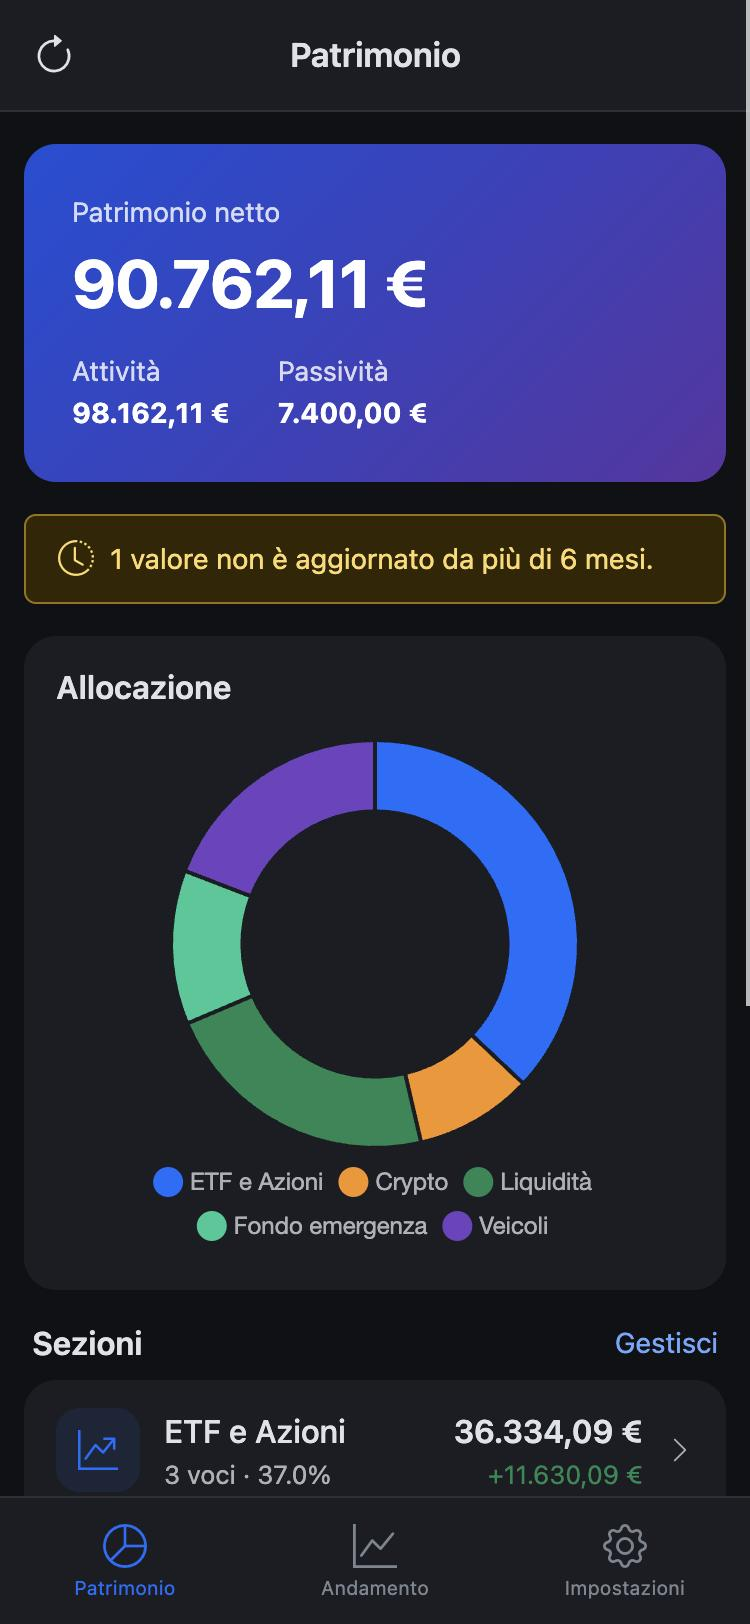
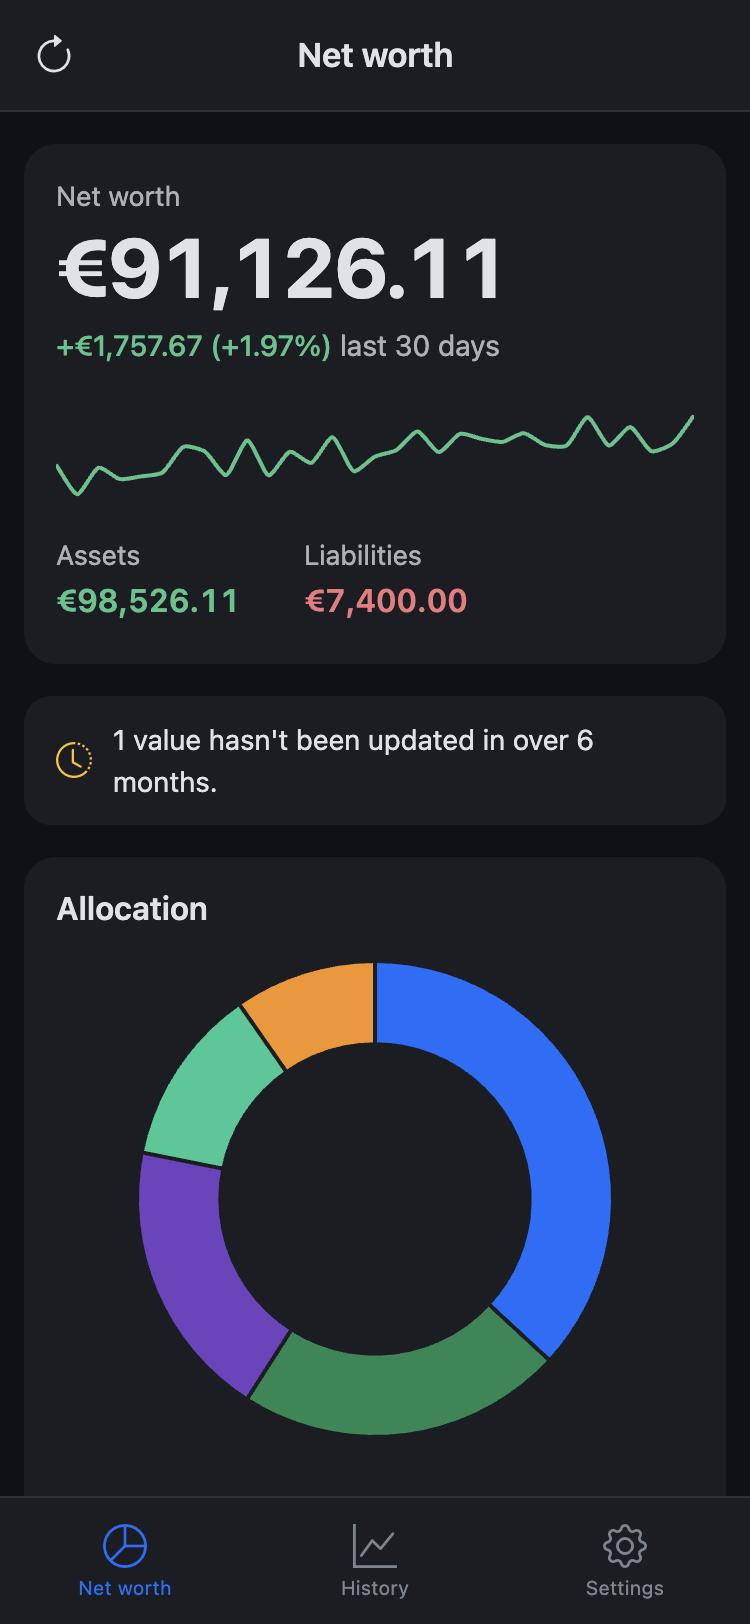
Ridisegna la dashboard con uno stile più pulito
- Testata del patrimonio in card neutra al posto del riquadro con gradiente
- Variazione e sparkline degli ultimi 30 giorni, attività in verde e passività in rosso
- Legenda dell'allocazione con le percentuali, grafico ordinato per peso
- Colori di guadagni e perdite leggibili in tema scuro, avviso valori vecchi più discreto
- Icona e logo a tinta unita, con variante per il tema scuro
- README senza emoji, screenshot in inglese e link di clone aggiornato

diff --git a/script/dashboard.js b/script/dashboard.js
@@ -1,18 +1,20 @@
 let allocationChart = null;
+let sparkChart = null;
 
 function loadSummary(refresh = false) {
 	const $icon = $('#btnRefresh i').addClass('spin');
 
 	App.api('portfolio/summary', { refresh: refresh ? 1 : 0 }, 'GET')
-		.done(render)
+		.done(data => { render(data); loadTrend(); })
 		.fail(msg => App.toast(msg, 'danger'))
 		.always(() => $icon.removeClass('spin'));
 }
 
 function render(data) {
 	$('#netWorth').text(App.money(data.net_worth));
-	$('#totalAssets').text(App.money(data.total_assets));
-	$('#totalLiabilities').text(App.money(data.total_liabilities));
+	// Verde/rosso solo se c'è un importo: uno zero resta neutro
+	$('#totalAssets').text(App.money(data.total_assets)).toggleClass('text-success', data.total_assets > 0);
+	$('#totalLiabilities').text(App.money(data.total_liabilities)).toggleClass('text-danger', data.total_liabilities > 0);
 
 	if (data.stale_total > 0) {
 		$('#staleText').text(data.stale_total === 1
@@ -55,9 +57,57 @@ function render(data) {
 	renderChart(data.categories.filter(c => !c.is_liability && c.total > 0));
 }
 
+// Variazione e sparkline degli ultimi 30 giorni (dopo il summary, che salva lo snapshot di oggi)
+function loadTrend() {
+	App.api('portfolio/history', { days: 30 }, 'GET').done(({ snapshots }) => {
+		if (snapshots.length < 2) {
+			$('#netChange').empty();
+			$('#sparkWrap').addClass('d-none');
+			return;
+		}
+		const values = snapshots.map(s => s.net_worth);
+		const first = values[0], last = values[values.length - 1], diff = last - first;
+		const since = snapshots[0].snapshot_date;
+		const spanDays = Math.round((Date.now() - new Date(since + 'T00:00:00')) / 86400000);
+		const period = spanDays >= 28 ? App.t('dash.last_30d') : App.t('dash.since', { date: App.date(since + 'T00:00:00', { day: 'numeric', month: 'short' }) });
+
+		$('#netChange').html(
+			`<span class="${App.signClass(diff)}">${diff > 0 ? '+' : ''}${App.money(diff)}${first ? ' (' + App.pct(diff / Math.abs(first) * 100) + ')' : ''}</span>` +
+			` <span class="period">${App.esc(period)}</span>`
+		);
+
+		const color = App.cssVar(diff < 0 ? '--app-down' : '--app-up');
+		$('#sparkWrap').removeClass('d-none');
+		sparkChart?.destroy();
+		sparkChart = new Chart($('#sparkline'), {
+			type: 'line',
+			data: { labels: values.map((_, i) => i), datasets: [{ data: values, borderColor: color, borderWidth: 2, pointRadius: 0, tension: .2, fill: false }] },
+			options: {
+				maintainAspectRatio: false,
+				animation: false,
+				events: [],
+				plugins: { legend: { display: false }, tooltip: { enabled: false } },
+				scales: { x: { display: false }, y: { display: false } }
+			}
+		});
+	});
+}
+
 function renderChart(cats) {
 	$('#allocationCard').toggle(cats.length > 0);
 	if (!cats.length) return;
+
+	// Dalla sezione più grande alla più piccola, uguale nel grafico e nella legenda
+	cats = [...cats].sort((a, b) => b.total - a.total);
+	const total = cats.reduce((s, c) => s + c.total, 0);
+	const share = c => App.pct(c.total / total * 100).replace('+', '');
+
+	$('#allocLegend').html(cats.map(c => `
+		<li>
+			<span class="dot" style="background:${c.color}"></span>
+			<span class="name">${App.esc(c.name)}</span>
+			<span class="pct">${share(c)}</span>
+		</li>`).join(''));
 
 	const cfg = {
 		labels: cats.map(c => c.name),
@@ -74,8 +124,8 @@ function renderChart(cats) {
 		options: {
 			cutout: '65%',
 			plugins: {
-				legend: { position: 'bottom', labels: { boxWidth: 10, usePointStyle: true } },
-				tooltip: { callbacks: { label: ctx => ' ' + ctx.label + ': ' + App.money(ctx.raw) } }
+				legend: { display: false },
+				tooltip: { callbacks: { label: ctx => ` ${ctx.label}: ${App.money(ctx.raw)} (${App.pct(ctx.raw / ctx.dataset.data.reduce((s, v) => s + v, 0) * 100).replace('+', '')})` } }
 			}
 		}
 	});

diff --git a/style/components.css b/style/components.css
@@ -10,6 +10,8 @@
     --app-divider: #f1f3f5;
     --app-pressed: #f8f9fa;
     --app-nav-muted: #8a929a;
+    --app-up: #198754;
+    --app-down: #d63340;
 }
 [data-bs-theme="dark"] {
     --app-bg: #0f1115;
@@ -17,6 +19,8 @@
     --app-divider: #262a31;
     --app-pressed: #22262d;
     --app-nav-muted: #7d8590;
+    --app-up: #4cc38a;
+    --app-down: #f2777f;
     --bs-body-bg: #0f1115;
     --bs-secondary-bg: #1a1d23;
     --bs-tertiary-bg: #22262d;
@@ -27,7 +31,9 @@
 [data-bs-theme="dark"] .list-group-item { background-color: var(--app-surface); }
 [data-bs-theme="dark"] .form-control,
 [data-bs-theme="dark"] .form-select { background-color: var(--bs-tertiary-bg); }
-[data-bs-theme="dark"] .hero-card { background: linear-gradient(135deg, #1b4fd8 0%, #5a35a3 100%); }
+/* Guadagni e perdite: in tema scuro i verdi/rossi di Bootstrap sono poco leggibili */
+.text-success { color: var(--app-up) !important; }
+.text-danger { color: var(--app-down) !important; }
 
 .btn-soft {
     background: var(--bs-tertiary-bg);
@@ -84,12 +90,54 @@ body {
 
 .card { border: 0; border-radius: 1rem; box-shadow: 0 1px 3px rgba(0,0,0,.06); }
 
-.hero-card {
-    background: linear-gradient(135deg, #0d6efd 0%, #6f42c1 100%);
-    color: #fff;
+/* Testata patrimonio netto: card neutra come le altre, il numero è il protagonista */
+.nw-hero { padding: 1rem 1rem 1.25rem; }
+.nw-label { font-size: .85rem; color: var(--bs-secondary-color); }
+.nw-amount {
+    font-size: 2.6rem;
+    font-weight: 700;
+    letter-spacing: -0.03em;
+    line-height: 1.1;
+    margin: .15rem 0 .35rem;
 }
-.hero-card .label { opacity: .8; font-size: .85rem; }
-.hero-card .amount { font-size: 2.1rem; font-weight: 700; letter-spacing: -0.5px; }
+.nw-change { font-size: .9rem; font-weight: 500; min-height: 1.35rem; }
+.nw-change .period { color: var(--bs-secondary-color); font-weight: 400; }
+.nw-spark { height: 56px; margin: .75rem 0 1rem; }
+.nw-split { display: flex; gap: 2rem; font-size: .85rem; }
+.nw-split span { display: block; color: var(--bs-secondary-color); }
+.nw-split strong { font-size: 1rem; font-weight: 600; }
+
+/* Avviso discreto: superficie neutra, solo l'icona colorata */
+.notice {
+    display: flex;
+    align-items: center;
+    gap: .65rem;
+    padding: .7rem 1rem;
+    background: var(--app-surface);
+    border-radius: .85rem;
+    font-size: .875rem;
+    box-shadow: 0 1px 3px rgba(0,0,0,.06);
+}
+.notice.d-none { display: none; }
+.notice i { font-size: 18px; color: var(--bs-warning); }
+[data-bs-theme="dark"] .notice { box-shadow: none; }
+
+/* Legenda dell'allocazione: una riga per sezione con la percentuale */
+.alloc-legend { list-style: none; padding: 0; margin: 1rem 0 0; }
+.alloc-legend li {
+    display: flex;
+    align-items: center;
+    gap: .6rem;
+    padding: .45rem 0;
+    font-size: .9rem;
+}
+.alloc-legend li + li { border-top: 1px solid var(--app-divider); }
+.alloc-legend .dot { width: 10px; height: 10px; border-radius: 50%; flex-shrink: 0; }
+.alloc-legend .name { flex-grow: 1; min-width: 0; overflow: hidden; text-overflow: ellipsis; white-space: nowrap; }
+.alloc-legend .pct { font-weight: 600; font-variant-numeric: tabular-nums; }
+
+/* Numeri allineati in colonna */
+.amount-sm, .nw-amount, .nw-split strong, #categoryTotal { font-variant-numeric: tabular-nums; }
 
 .cat-icon {
     width: 42px;

diff --git a/style/login.css b/style/login.css
@@ -9,8 +9,8 @@ body { padding: 0; background: var(--bs-body-bg); }
 .login-logo {
 	width: 84px;
 	height: 84px;
-	border-radius: 24px;
-	background: linear-gradient(135deg, #0d6efd 0%, #6f42c1 100%);
+	border-radius: 20px;
+	background: #16181d;
 	color: #fff;
 	display: flex;
 	align-items: center;
@@ -22,3 +22,6 @@ body { padding: 0; background: var(--bs-body-bg); }
 	box-shadow: none;
 	border-color: #0d6efd;
 }
+
+/* In tema scuro il logo diventa chiaro, come la favicon */
+[data-bs-theme="dark"] .login-logo { background: #eceef1; color: #16181d; }

diff --git a/script/statistics.js b/script/statistics.js
@@ -27,8 +27,9 @@ function render({ categories, snapshots }) {
 			datasets: [{
 				data: snapshots.map(s => s.net_worth),
 				borderColor: '#0d6efd',
-				backgroundColor: 'rgba(13,110,253,.08)',
-				fill: true, tension: .3, pointRadius: snapshots.length > 40 ? 0 : 3
+				backgroundColor: 'rgba(13,110,253,.06)',
+				borderWidth: 2,
+				fill: true, tension: .2, pointRadius: snapshots.length > 40 ? 0 : 2
 			}]
 		},
 		options: {

diff --git a/views/dashboard.php b/views/dashboard.php
@@ -10,25 +10,28 @@
 
 <div class="container app-container py-3">
 	<!-- TOTALE -->
-	<div class="card hero-card p-4 mb-3">
-		<div class="label"><?= te('dash.net_worth') ?></div>
-		<div class="amount" id="netWorth">—</div>
-		<div class="d-flex gap-4 mt-2 small">
-			<div><span class="label"><?= te('dash.assets') ?></span><br><strong id="totalAssets">—</strong></div>
-			<div><span class="label"><?= te('dash.liabilities') ?></span><br><strong id="totalLiabilities">—</strong></div>
+	<section class="card nw-hero mb-3">
+		<div class="nw-label"><?= te('dash.net_worth') ?></div>
+		<div class="nw-amount" id="netWorth">—</div>
+		<div class="nw-change" id="netChange"></div>
+		<div class="nw-spark d-none" id="sparkWrap"><canvas id="sparkline"></canvas></div>
+		<div class="nw-split">
+			<div><span><?= te('dash.assets') ?></span><strong class="text-success" id="totalAssets">—</strong></div>
+			<div><span><?= te('dash.liabilities') ?></span><strong class="text-danger" id="totalLiabilities">—</strong></div>
 		</div>
-	</div>
+	</section>
 
 	<!-- VALORI DA AGGIORNARE -->
-	<div class="alert alert-warning d-none d-flex align-items-center gap-2 py-2 small" id="staleAlert" role="alert">
-		<i class="bi bi-clock-history" style="font-size:18px"></i>
+	<div class="notice d-none mb-3" id="staleAlert" role="status">
+		<i class="bi bi-clock-history"></i>
 		<span id="staleText"></span>
 	</div>
 
 	<!-- ALLOCAZIONE -->
 	<div class="card p-3 mb-3" id="allocationCard">
 		<h6 class="fw-semibold mb-3"><?= te('dash.allocation') ?></h6>
-		<div class="mx-auto" style="max-width: 260px;"><canvas id="allocationChart"></canvas></div>
+		<div class="mx-auto" style="max-width: 240px;"><canvas id="allocationChart"></canvas></div>
+		<ul class="alloc-legend" id="allocLegend"></ul>
 	</div>
 
 	<!-- SEZIONI -->

diff --git a/components/head.php b/components/head.php
@@ -28,6 +28,7 @@
 			<link rel="icon" type="image/png" sizes="32x32" href="<?= BASE_URL ?>assets/logos/favicon-32.png">
 
 			<!-- PWA utils -->
+			<meta name="mobile-web-app-capable" content="yes">
 			<meta name="apple-mobile-web-app-capable" content="yes">
 			<meta name="apple-mobile-web-app-status-bar-style" content="default">
 			<link rel="apple-touch-icon" href="<?= BASE_URL ?>assets/logos/apple-touch-icon.png">

diff --git a/lang/it.php b/lang/it.php
@@ -48,6 +48,8 @@ return [
     'dash.no_sections' => 'Nessuna sezione. Creane una dalle impostazioni.',
     'dash.prices_unavailable' => 'Quotazioni non disponibili',
     'dash.to_update'   => '{n} da aggiornare',
+    'dash.last_30d'    => 'ultimi 30 giorni',
+    'dash.since'       => 'dal {date}',
 
     /* Sezione */
     'cat.total_value'       => 'Valore totale',

diff --git a/lang/en.php b/lang/en.php
@@ -48,6 +48,8 @@ return [
     'dash.no_sections' => 'No sections yet. Create one in Settings.',
     'dash.prices_unavailable' => 'Prices unavailable',
     'dash.to_update'   => '{n} to update',
+    'dash.last_30d'    => 'last 30 days',
+    'dash.since'       => 'since {date}',
 
     /* Section */
     'cat.total_value'       => 'Total value',

diff --git a/README.md b/README.md
@@ -1,53 +1,45 @@
 <div align="center">
 
-<img src="assets/logos/icon.svg" alt="Tracktage" width="96" height="96">
+<img src="assets/logos/icon.svg" alt="" width="72" height="72">
 
 # Tracktage
 
-**Your net worth, all in one place.**
-ETFs, stocks, crypto, bank accounts, emergency fund, cars, real estate and debts in a single web app, with prices updated automatically.
+A self-hosted net worth tracker for one person.
 
-![PHP](https://img.shields.io/badge/PHP-8.1%2B-777BB4?logo=php&logoColor=white)
-![SQLite](https://img.shields.io/badge/SQLite-zero%20config-003B57?logo=sqlite&logoColor=white)
-![Bootstrap](https://img.shields.io/badge/Bootstrap-5.3-7952B3?logo=bootstrap&logoColor=white)
-![PWA](https://img.shields.io/badge/PWA-installable-5A0FC8?logo=pwa&logoColor=white)
-![Self-hosted](https://img.shields.io/badge/self--hosted-single%20user-0d6efd)
-![License: MIT](https://img.shields.io/badge/license-MIT-green)
+![PHP 8.1+](https://img.shields.io/badge/PHP-8.1%2B-555?logo=php&logoColor=white)
+![SQLite](https://img.shields.io/badge/SQLite-555?logo=sqlite&logoColor=white)
+![License: MIT](https://img.shields.io/badge/license-MIT-555)
 
 </div>
 
 <p align="center">
   <img src="assets/screenshots/dashboard.jpg" alt="Dashboard" width="200">
-  <img src="assets/screenshots/andamento.jpg" alt="Net worth over time" width="200">
+  <img src="assets/screenshots/history.jpg" alt="Net worth over time" width="200">
   <img src="assets/screenshots/etf-dark.jpg" alt="ETF section in dark mode" width="200">
   <img src="assets/screenshots/dashboard-dark.jpg" alt="Dashboard in dark mode" width="200">
 </p>
 
----
+Tracktage keeps ETFs, stocks, crypto, bank accounts, the emergency fund, cars, property and debts
+in one place. Market holdings are priced automatically; everything else you update by hand. A
+snapshot is saved every day, so over time you get a history of your net worth.
 
-## Why
-
-Net worth spreadsheets get out of hand: prices to update by hand, formulas that break, no history.
-Tracktage is a **self-hosted, personal** web app that installs on your phone like a native app.
-ETF prices update on their own, and every day it saves a snapshot of your net worth, so you can
-actually see how it grows over time.
-
-No third-party cloud, no subscriptions, no data sharing: just PHP and a SQLite file, on your own server.
+It runs on plain PHP and a single SQLite file, installs on your phone as a web app, and is meant
+to be used by exactly one person on their own server.
 
 ## Features
 
-- 📈 **Live prices** for ETFs, stocks and crypto from Yahoo Finance, with no API key, caching and automatic conversion to your base currency
-- 🔎 **Instrument search** by ticker, name or ISIN (`IE00BK5BQT80` → `VWCE.DE`)
-- 💰 **Gain/loss** against your average cost, per holding and per section
-- 🗂 **Custom sections**, each either *market-priced* (ticker × shares) or *manual* (cars, accounts, property…), with their own icon and color
-- ➖ **Liabilities**: mortgages and loans are subtracted from your net worth
-- 📊 **History** of your net worth and of each section (1M, 3M, 1Y, 5Y, all time)
-- ⏰ **Reminders** for manual values that haven't been updated in a while (6 months by default)
-- 🌙 **Light, dark or automatic theme**
-- 🌍 **English and Italian**, switchable per device from Settings, with numbers and dates in the right format
-- 💾 **One-tap backups**: CSV of your holdings, CSV of your history (Excel-ready) or the full database
-- 📱 **Mobile-first PWA**, installable on the iOS and Android home screen
-- 🔒 **Single-user access**, with no public sign-up (see [Security](#-security))
+- Live prices for ETFs, stocks and crypto from Yahoo Finance (no API key), cached and converted to your base currency
+- Instrument search by ticker, name or ISIN (`IE00BK5BQT80` → `VWCE.DE`)
+- Gain/loss against your average cost, per holding and per section
+- Custom sections, either market-priced (ticker × shares) or manual (cars, accounts, property), each with its own icon and color
+- Liabilities such as mortgages and loans, subtracted from the total
+- Net worth history and a breakdown by section (1M, 3M, 1Y, 5Y, all)
+- Reminders for manual values that haven't been updated in a while (6 months by default)
+- Light, dark or automatic theme
+- English and Italian, switchable per device, with numbers and dates formatted accordingly
+- Backups from the settings page: holdings as CSV, history as CSV, or the full database
+- Installable on the iOS and Android home screen
+- Single-user login with no public sign-up (see [Security](#security))
 
 ## Stack
 
@@ -65,7 +57,7 @@ Frontend libraries are bundled in `vendors/`. Chart.js is loaded from jsDelivr w
 **Requirements:** PHP 8.1+ with the `pdo_sqlite` and `curl` extensions.
 
 ```bash
-git clone https://github.com/<your-username>/tracktage.git
+git clone https://github.com/elianAlde/tracktage.git
 cd tracktage
 cp .env.example .env
 ```
@@ -140,7 +132,7 @@ Prices in currencies other than `BASE_CURRENCY` are converted at the current exc
 4. Create your user with `php bin/create-user.php`.
 5. **Check** that `https://yourdomain/.env` and `https://yourdomain/database/tracktage.sqlite` return **403**.
 
-> 💡 Even better: move the database **outside the document root** with `DB_PATH=/home/user/data/tracktage.sqlite`.
+> Even better: move the database **outside the document root** with `DB_PATH=/home/user/data/tracktage.sqlite`.
 
 ### Apache
 
@@ -182,7 +174,7 @@ sqlite3 database/tracktage.sqlite ".backup database/upload.sqlite"
 
 Alternatively, download the database from **Settings → Backup**.
 
-## 🔒 Security
+## Security
 
 Tracktage is built for **a single user** and holds sensitive data, so:
 
